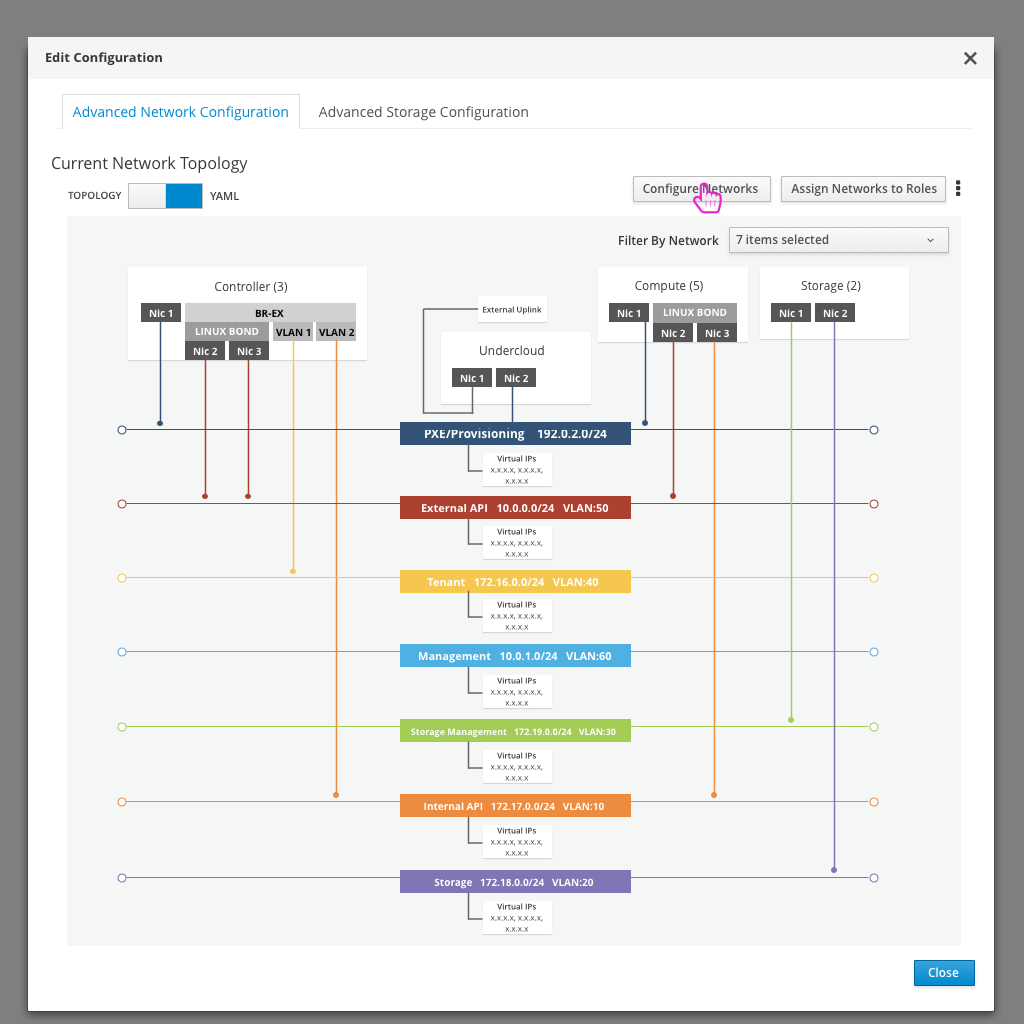
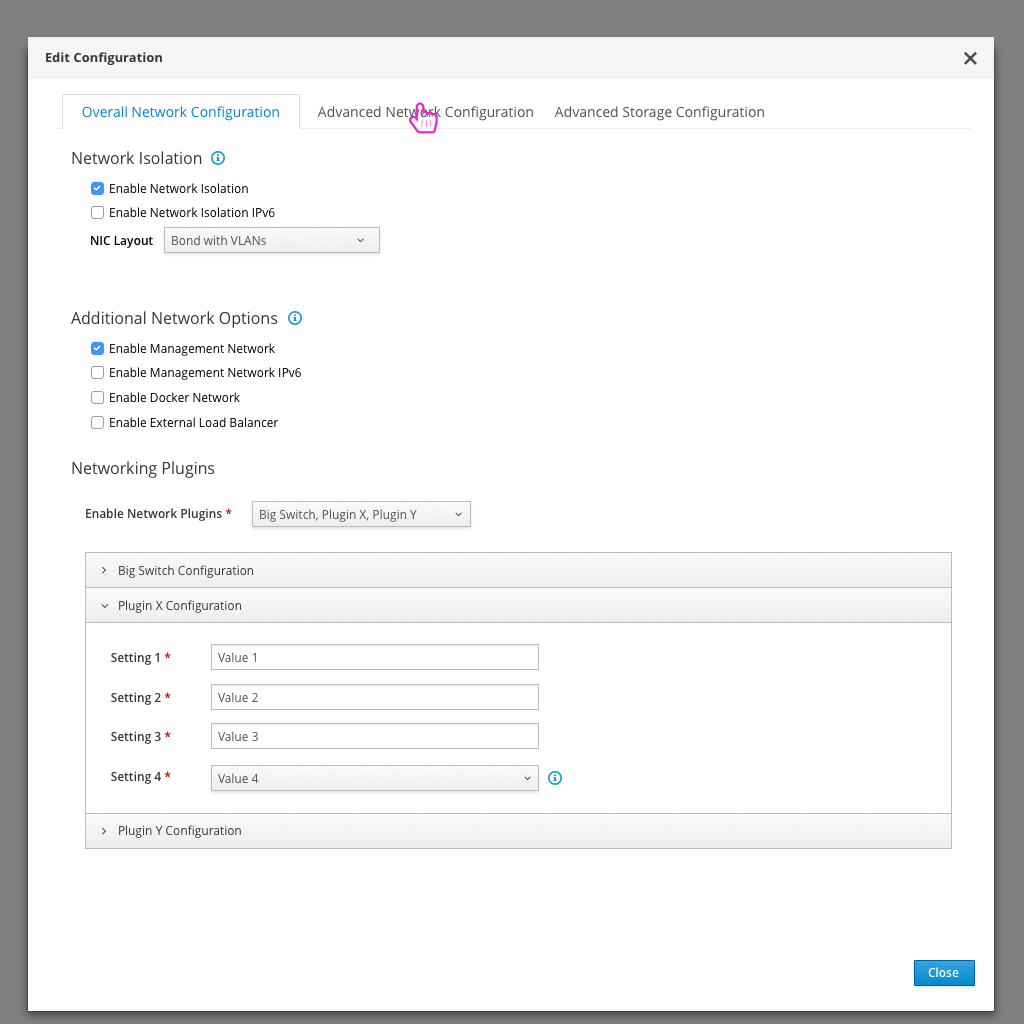
Updating Networking designs
Adding high level network configuration tab, making sure VIPs display will scale.

diff --git a/tripleo-ui/3-tripleo-ui-edge-cases/7.advancednetworkconfigurationandtopology.md b/tripleo-ui/3-tripleo-ui-edge-cases/7.advancednetworkconfigurationandtopology.md
@@ -2,84 +2,69 @@
 ![editconfiguration](img/01-Network-Deployment_Plan.png)
 - An advanced user (or preparation expert) might use the UI to setup advanced Networking configuration. To access the configuration, they can click on the "Edit Configuration" button on the 4th step of the deployment workflow.
 
+## High Level Network configuration
+![networkconfiguration](img/02-Network-Edit_Configuration_Modal.png)
+- First, the user has access to high level network configuration options. This includes enable or disabled things like network isolation, choosing the NIC layout, and enabling or disabling any networking plugins.
+- Any plugins that are enabled are added to the accordion below along with any parameters that can be configured.
+
 ## Network Topology
-![networktopology](img/02-Network-Edit_Configuration_Modal.png)
-- Once the user has clicked on the Edit Configuration button, they will see the current Network Topology as a base view. They will have a number of actions they could perform from here that are in buttons at the top of the modal.
+![networktopology](img/03-Network-Edit_Configuration_Modal.png)
+- The user can view the network topology in the second tab. They will have a number of actions they could perform from here that are in buttons at the top of the modal.
 - The network topology is a visual representation of the roles, their NIC configuration, along with which networks each NIC is configured for.
 - The user can see the high level network information as well.
 
 ## Configure Networks
-![configurenetworks](img/03-Network-Configure_Networks.png)
+![configurenetworks](img/04-Network-Configure_Networks.png)
 - The network configuration will slide over the topology view. It will allows users to edit the configuration of the base networks, enable or disable the networks, and add/delete their own networks.
 - After making any updates, clicking save will return the user back to the network topology view.
 
 ## Assign Networks to Roles
 - Clicking the "Assign Networks to Roles" button will present the user with another modal.
-![networktopology2](img/04-Network-Edit_Configuration_Modal.png)
-![advancednetworkconfiguration3](img/05-Network-Assign_Networks_to_Roles.png)
+![networktopology2](img/05-Network-Edit_Configuration_Modal.png)
+![advancednetworkconfiguration3](img/06-Network-Assign_Networks_to_Roles.png)
 - This matrix allows the user to define which roles will be able to access which networks.
 - After making any updates, clicking save will return the user back to the network topology view.
 
-<!---
-## Traffic Configuration
-![advancednetworkconfiguration4](img/2017-8-17-TripleO-UI_Edge-Cases34.png)
-- The traffic configuration section allows the user to configure which services will run on which subnets.
-
-![advancednetworkconfiguration5](img/2017-8-17-TripleO-UI_Edge-Cases35.png)
-- Since there are a number of services, this list can be expanded to show all services if needed.
-- The user can also choose to add a subnet here if they wish.
-
-![advancednetworkconfiguration6](img/2017-8-17-TripleO-UI_Edge-Cases36.png)
-
--->
-
 ## Configure NICs
 - The kebab will present the user with a number of additional options. One is to "Configure NICs".
-![networktopology2](img/06-Network-Edit_Configuration_Modal.png)
-![configurenics](img/07-Network-Configure_NICs.png)
+![networktopology2](img/07-Network-Edit_Configuration_Modal.png)
+![configurenics](img/08-Network-Configure_NICs.png)
 - Clicking on the "Configure NICs" button gives the user the option to define a network profile that will be used for the nodes assigned to each role. The role can be selected at the top of the modal.
 - The user will be able to create and configure NICs, bridges, bonds, VLANs, and routes.
 - After making any updates, clicking save will return the user back to the network topology view.
 
-## Configure Plugins
-- Another option in the kebab is to "Configure Plugins".
-![networktopology3](img/08-Network-Edit_Configuration_Modal.png)
-![configureplugins](img/09-Network-Configure_Plugins.png)
-- The plugin dropdown allows the user to enable or disable plugins.
-- Any plugins that are enabled are added to the accordion below along with any parameters that can be configured.
-
 ## Toggle YAML view
 - One option that the user has is to toggle the view from the visual topology to the YAML view.
-![networktopology3](img/10-Toggle_YAML_View.png)
-![configureplugins](img/11-YAML_View.png)
+![networktopology3](img/09-Toggle_YAML_View.png)
+![configureplugins](img/10-YAML_View.png)
 
 ## Configure Provider Networks
 - An additional option is to configure the provider networks.
 - Provider networks will be created after a successful deployment, so they are a bit different from all other networks that are being configured here.
-![networktopology3](img/12-Network-Edit_Configuration_Modal.png)
-![configureprovidernetworks](img/13-Configure_Provider_Networks.png)
+![networktopology3](img/11-Network-Edit_Configuration_Modal.png)
+![configureprovidernetworks](img/12-Configure_Provider_Networks.png)
 - Since the Provider networks are different from the network topology set up, an informational icon is included to help the user understand how and when to use these.
-![configureprovidernetworkstooltip](img/14-Configure_Provider_Networks_Tooltip.png)
+![configureprovidernetworkstooltip](img/13-Configure_Provider_Networks_Tooltip.png)
 
 ## Download Templates
 - Note that there is an additional option in the kebab menu to allow the user to download the templates from this view.
-![downloadtemplates](img/15-Network-Download_Templates.png)
+![downloadtemplates](img/14-Network-Download_Templates.png)
 
 ## Hover States
 - The user will be click on the different pieces of the network topology in order to drill in and edit these items quickly. Hover over states will be used to show the user that these items are clickable.
-![hoverstates](img/16-Network-Hover_States.png)
+![hoverstates](img/15-Network-Hover_States.png)
 
 ## Filter networks
 - If the user wants to filter down the number of networks being shown in the topology, they can use the filter dropdown.
-![filternetworks](img/17-Network-Filter_Networks.png)
+![filternetworks](img/16-Network-Filter_Networks.png)
 
 ## Role Network Configuration
 - An alternate way to view the NIC configuration per role would be to navigate to the Role Configuration modal
-![roleconfiguration](img/18-Network-Deployment_Plan-Roles-Configuration.png)
+![roleconfiguration](img/17-Network-Deployment_Plan-Roles-Configuration.png)
 
 - The initial screen the user sees is the overall configuration of that role, but they can navigate to the "NIC Configuration" section to view or edit the NIC config for this role.
-![roleconfigurationmodal](img/19-Network-Role-Configuration-Modal.png)
-![roleconfigurationmodalnicconfig](img/20-Network-Role-Configuration-Modal-Configure_NICs.png)
+![roleconfigurationmodal](img/18-Network-Role-Configuration-Modal.png)
+![roleconfigurationmodalnicconfig](img/19-Network-Role-Configuration-Modal-Configure_NICs.png)
 
 <!---
 - One additional feature in this modal is that the user can filter down the number of networks being shown to reduce the clutter in this view. The user can unselect any networks they want to hide from view.
